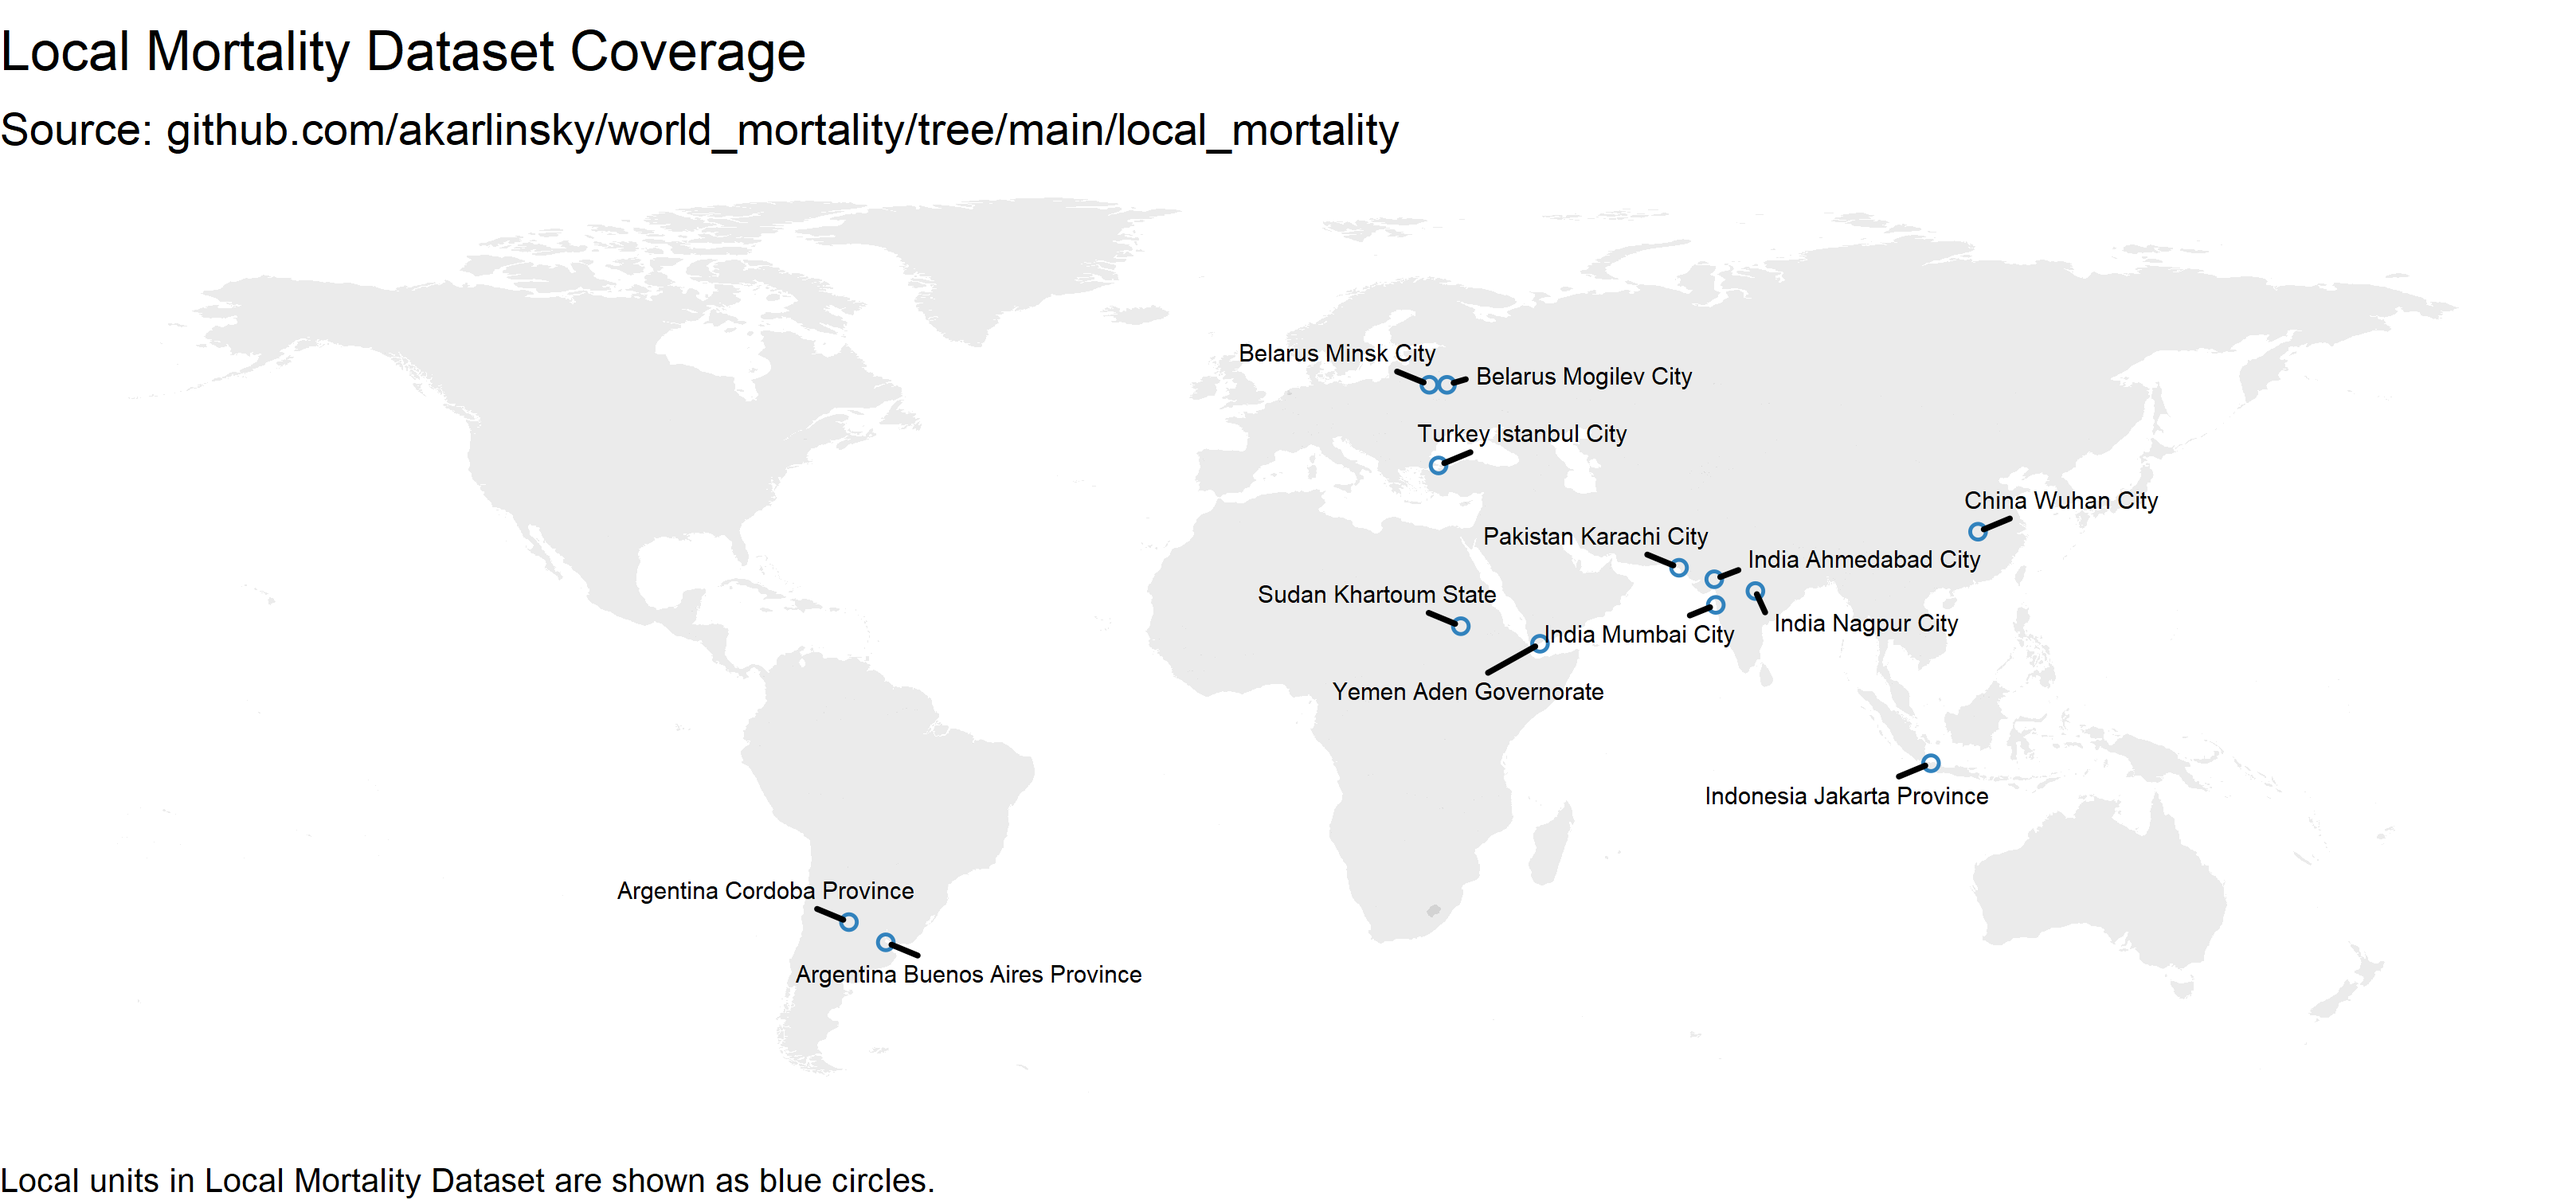
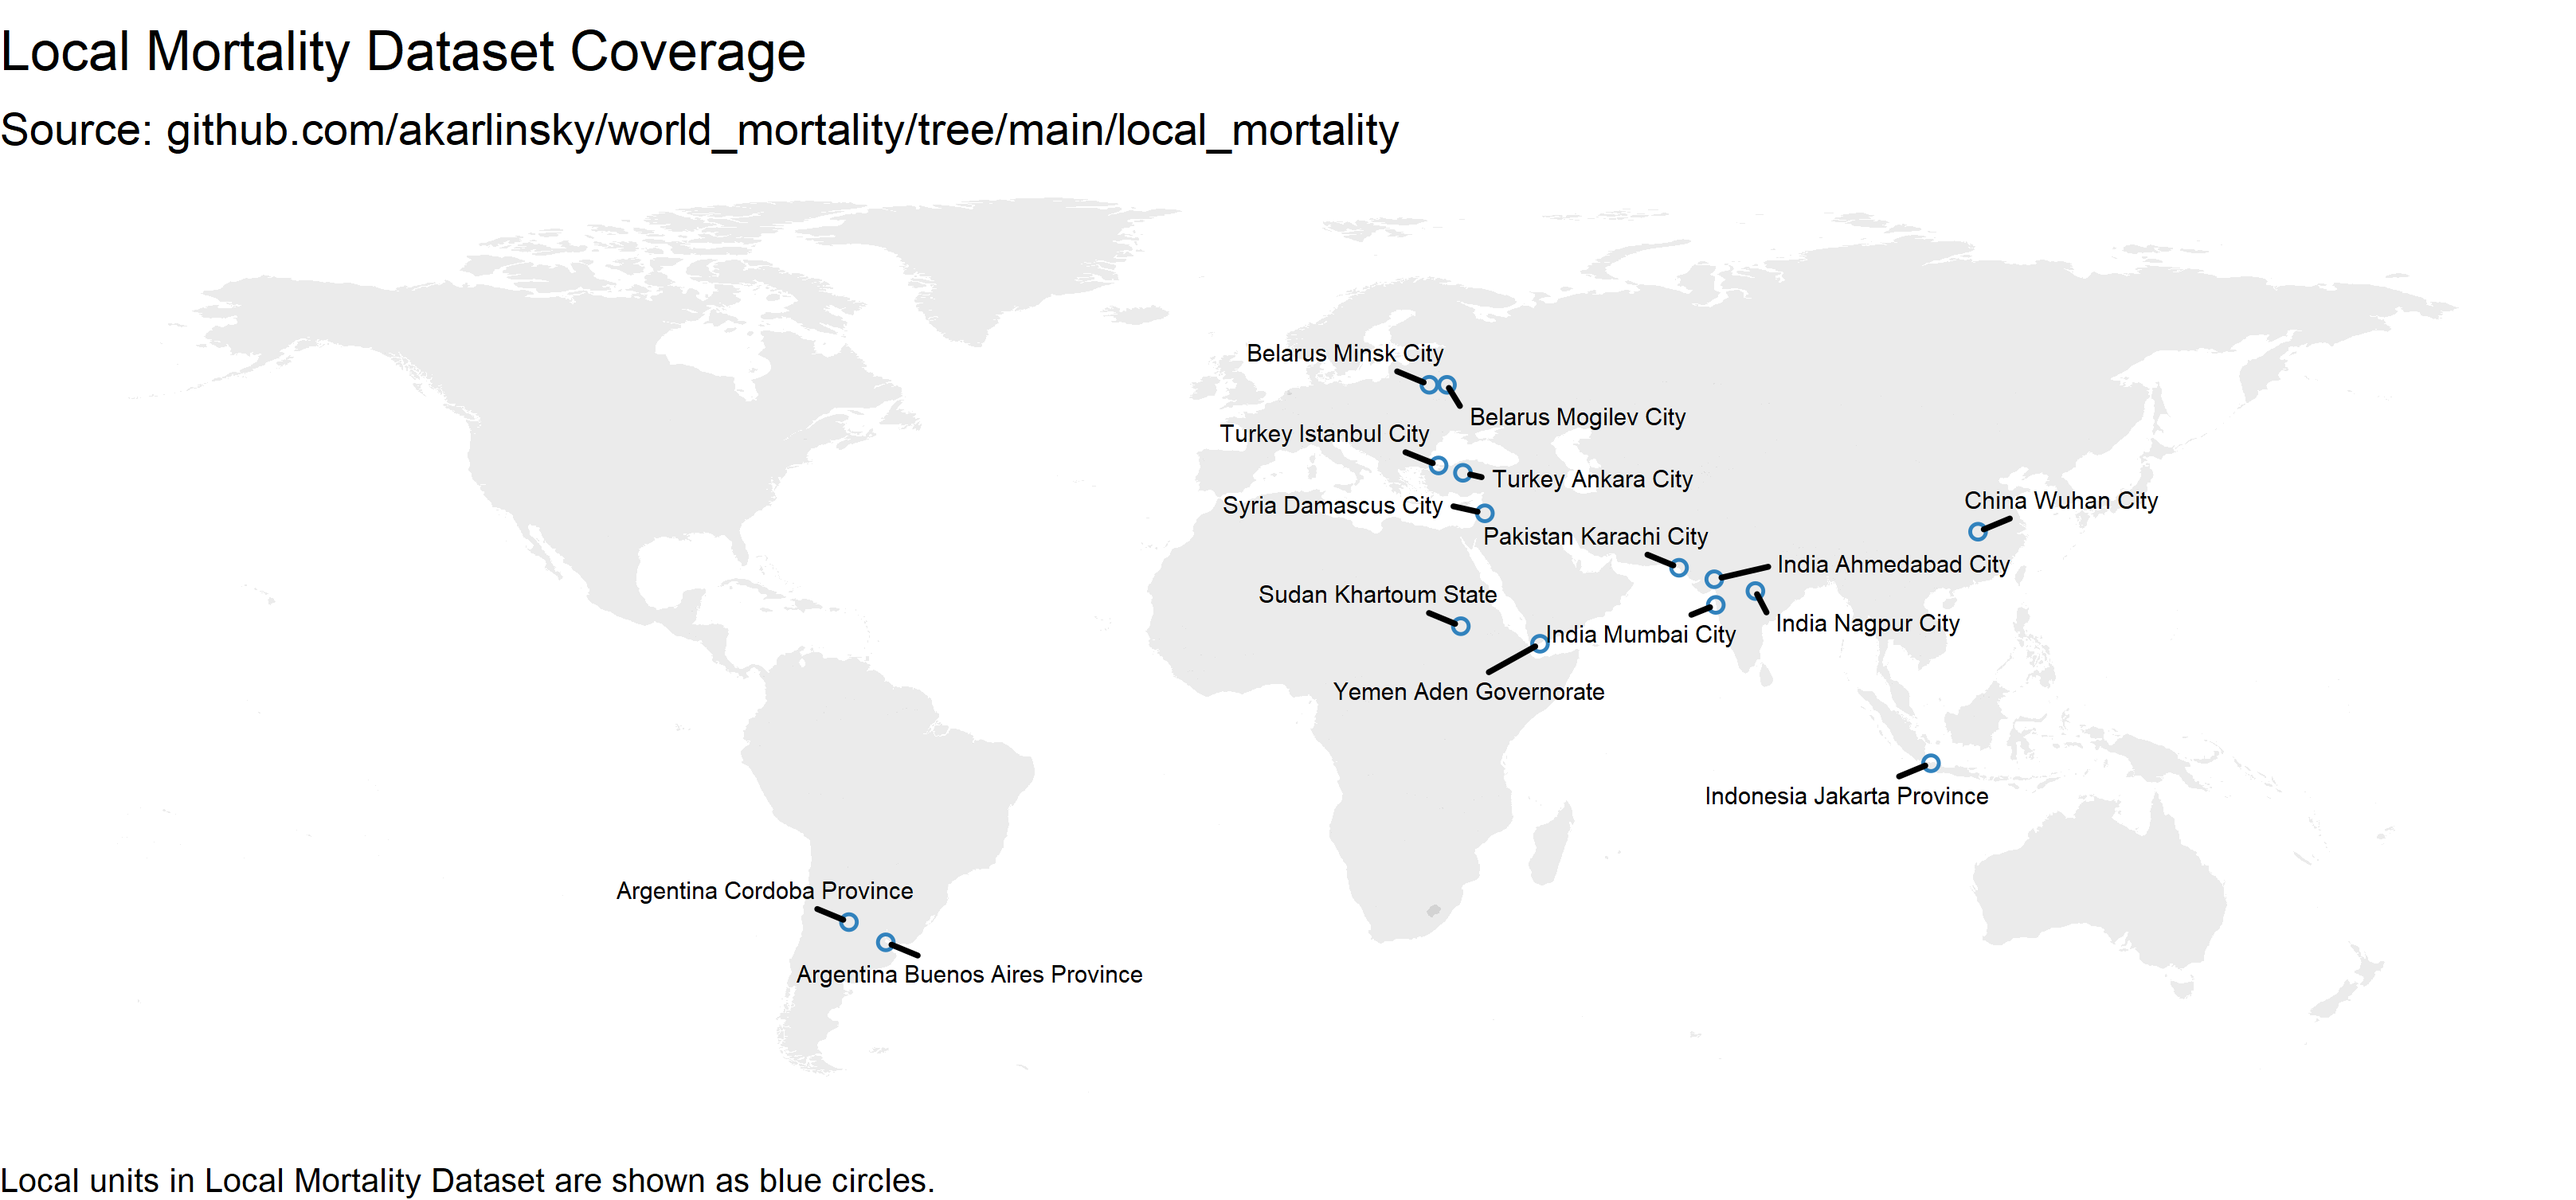
Local Mortality update
New: Damascus, Ankara.

New data: Nagpur, Cordoba.

Revisions: Cordoba.

diff --git a/local_mortality/README.md b/local_mortality/README.md
@@ -5,7 +5,7 @@ Local is any sub-national unit - whether state, province, region, city etc.
 Local Mortality is a sister-project of [World Mortality](https://github.com/akarlinsky/world_mortality), Priority is given to local mortality information from countries which are not present in World Mortality or have very partial information on World Mortality.   
 
 Sources vary by local unit, see below.   
-We are currently providing data for 13 Local Units from 9 Countries.   
+We are currently providing data for 15 Local Units from 10 Countries.   
 We welcome any contributions.   
 
 ![Local Mortality coverage](local_mortality_map.png)
@@ -29,7 +29,7 @@ Notes:
 https://www.margen.org/pandemia/textos/impacto.pdf
 
 ### Cordoba Province (monthly)
-2019 to 2021: https://www.lavoz.com.ar/ciudadanos/enero-fue-quinto-mes-consecutivo-con-exceso-de-mortalidad-en-cordoba
+2019 to 2021: https://www.lavoz.com.ar/ciudadanos/mortalidad-en-cordoba-ya-lleva-siete-meses-en-exceso/
 
 ## Belarus
 
@@ -62,6 +62,10 @@ Information from [Sumitra Debroy](https://twitter.com/debroysumitra).
 ### Nagpur City
 https://timesofindia.indiatimes.com/city/nagpur/nov-death-figures-hint-at-undetected-covid-fatalities-in-city/articleshow/79612964.cms
 
+https://timesofindia.indiatimes.com/city/nagpur/hidden-toll-over-1300-more-deaths-after-covid-routine-fatalities-in-mar/articleshow/82169686.cms
+
+
+
 
 ## Indonesia
 
@@ -82,10 +86,21 @@ https://bajnews.net/%D8%A2%D9%84%D8%A7%D9%81%D9%8F-%D9%82%D8%B5%D8%B5-%D8%A7%D9%
 
 [Watson et al. (2020)](https://www.imperial.ac.uk/mrc-global-infectious-disease-analysis/covid-19/report-39-sudan/)
 
+## Syria
+
+### Damascus (monthly)
+[Watson et al. (2021)](https://www.nature.com/articles/s41467-021-22474-9).
+
+Watson et al. (2021) provides a host of information on mortality and excess mortality in Damascus. For our purposes, we used the [supplementary table 7](https://github.com/mrc-ide/syria-covid-ascertainment/blob/master/analysis/data/raw/supp_table_7_revised.csv) which collects information on on death certificates postered in Damascus from 2017. To transform these into TOTAL mortality in Damascus, the monthly counts were corrected by the coverage share of certificates (4152) to total deaths reported in Damascus by the Syrian NSO (10835) for 2019.
+
+We advise users to treat this information and estimates with caution. 
+
+
 ## Turkey
 
-### Istanbul (weekly)
+### Ankara (weekly) & Istanbul (weekly)
 https://github.com/gucluyaman/Excess-mortality-in-Turkey
+
 
 ## Yemen
 
